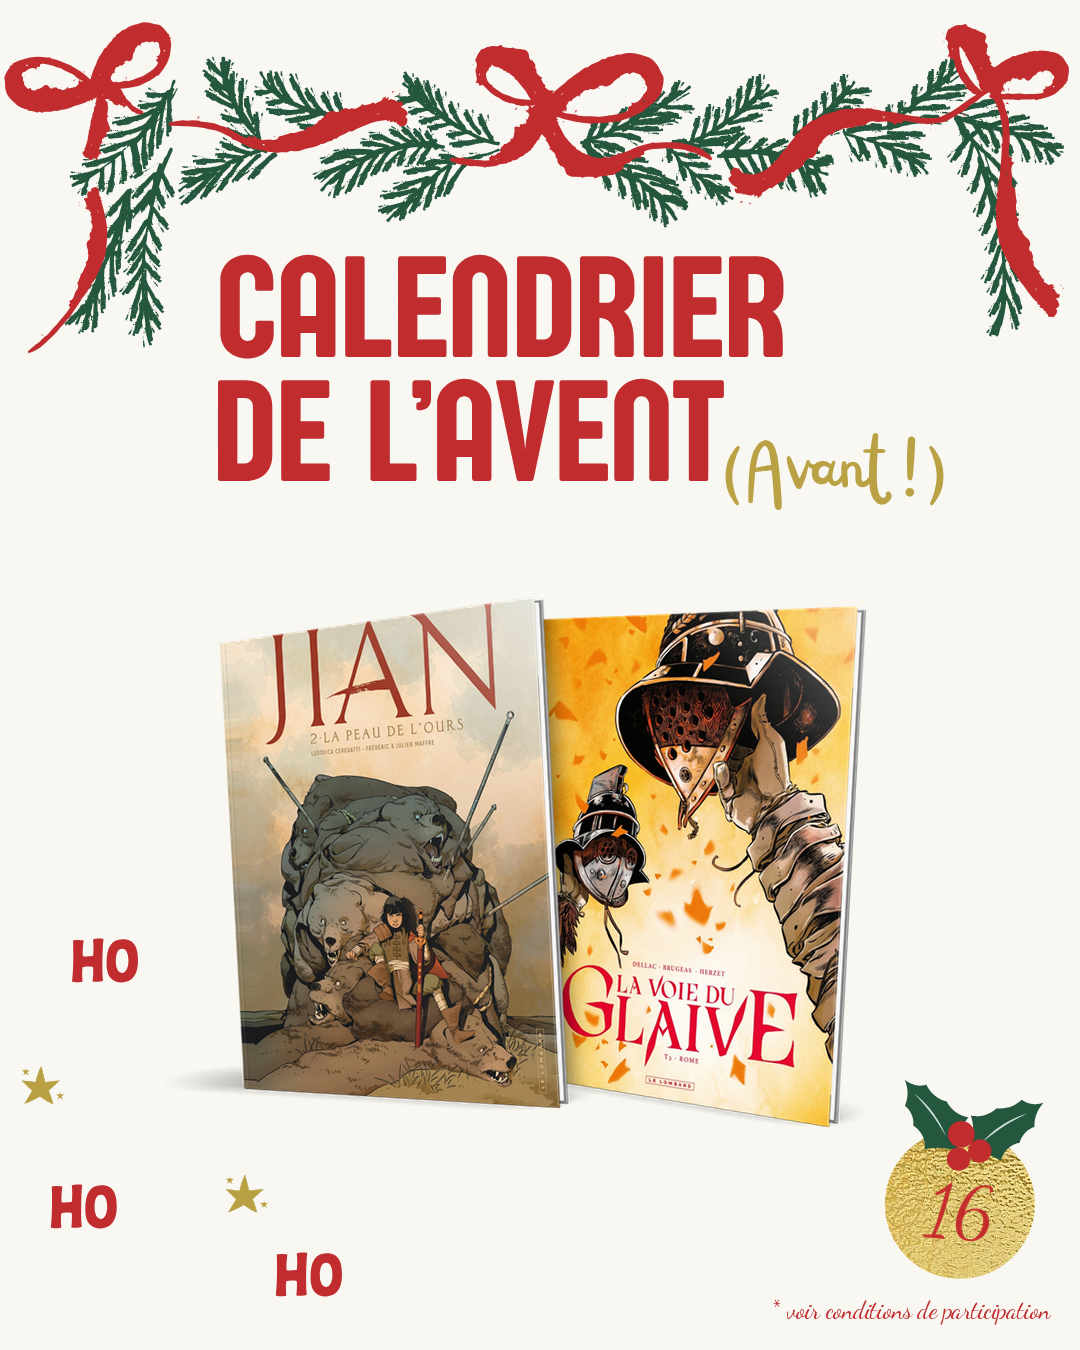
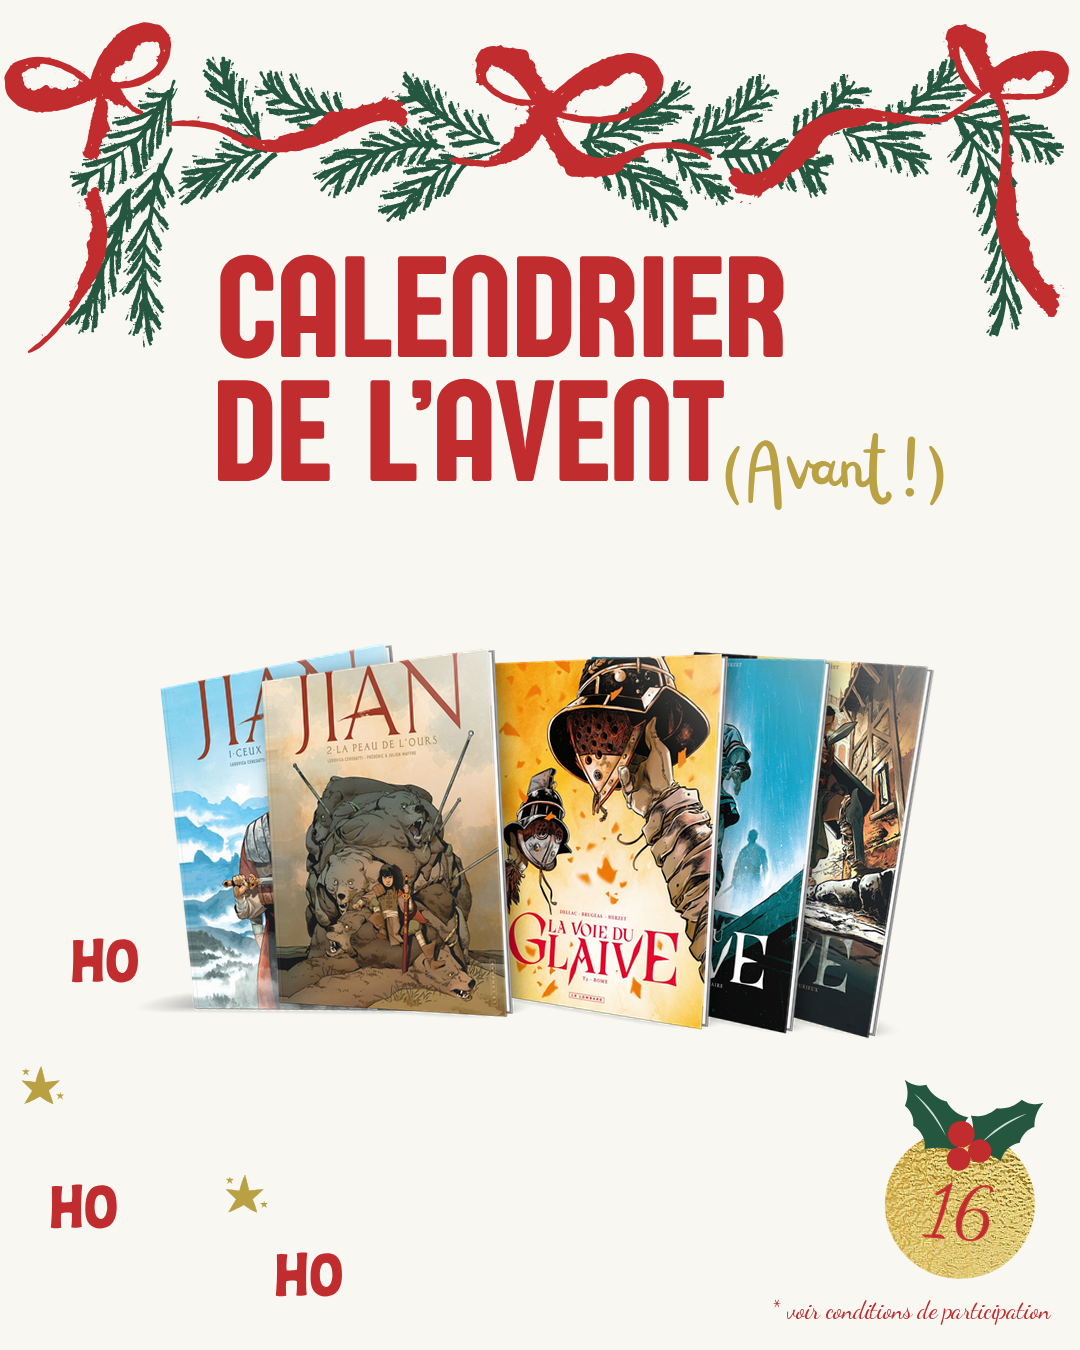
Calendrier Avant : jour 16 = Jian 1-2 | La voie du glaive 1-3 (composition sur mesure, profondeur z)
Claude-Session: https://claude.ai/code/session_01QaZk7QZvzTVY1x8op41wve

Changed region(s): [[0.1528, 0.4356, 0.8861, 0.84]]

diff --git a/calendrier-avent-2026/planning.py b/calendrier-avent-2026/planning.py
@@ -25,7 +25,7 @@ PLANNING = [
     ['9782808219211'],                    # 13 Le Territoire
     ['9782808201292'],                    # 14 Resurrection Hill
     ['9782808218115'],                    # 15 Un Noël à Paris 2
-    ['9782808217071', '9782808215008'],   # 16 Jian 2 + La voie du glaive 3
+    'jour16',                             # 16 Jian 1-2 | La voie du glaive 1-3 (voir COMPOSITIONS)
     ['9782808212588'],                    # 17 Mitsuo 2
     ['9782808217453', '9782808218092'],   # 18 M.A.D. 3 + Sherlock Holmes contre Arsène Lupin 2
     ['9782808218078', '9782808216821'],   # 19 Pro gamer 2 + Dinodyssée 3
@@ -55,6 +55,18 @@ VARIANTES = [
 ]
 
 
+# Compositions sur mesure : albums de gauche à droite avec angle / échelle / profondeur (z : plus grand = devant),
+# et écarts entre albums (en largeur d'album).
+COMPOSITIONS = {
+    # Jian 1 sous le 2 (à gauche) | séparation | La voie du glaive 3, puis 2 et 1 dessous (à droite)
+    'jour16': {
+        'books': [('9782808211413', -6, 1.0, 1), ('9782808217071', -3, 1.0, 5),
+                  ('9782808215008', 3, 1.02, 4), ('9782808212144', 6, 1.02, 3), ('9782808211192', 9, 1.02, 2)],
+        'steps': [0.4, 0.9, 0.4, 0.4], 'h': 375, 'y': 650,
+    },
+}
+
+
 def book(i):
     if i.startswith('simu:'):
         return {'png': '../assets/simu3d/' + i[5:]}
@@ -65,14 +77,26 @@ ONLY = sys.argv[1:]
 JOBS = [(f'jour{n:02d}', n, e) for n, e in enumerate(PLANNING, 1)] + VARIANTES
 for name, n, entry in JOBS:
     if ONLY and str(n) not in ONLY and name not in ONLY: continue
+    if isinstance(entry, str):               # composition sur mesure
+        c = COMPOSITIONS[entry]
+        books = []
+        for i, ang, sc, z in c['books']:
+            bk = book(i); bk.update(angle=ang, z=z)
+            if sc != 1: bk['scale'] = sc
+            books.append(bk)
+        layout = {'y': c['y'], 'h': c['h'], 'steps': c['steps'], 'cx': 540}
+    else:
+        layout = None
     serie = isinstance(entry, dict)
-    isbns = entry['serie'] if serie else entry
-    books = [book(i) for i in isbns]
+    isbns = entry['serie'] if serie else ([] if layout else entry)
+    if not layout: books = [book(i) for i in isbns]
     overlap = 0.1
     if serie:
         for k, b in enumerate(books):
             b['angle'] = -5 + 3 * k
         overlap = SERIE_OVERLAP
+    elif layout:
+        pass
     elif len(books) == 2:                   # réglages validés au jour 1
         books[0]['angle'] = -3
         books[1].update(angle=3, scale=1.02)
@@ -85,7 +109,7 @@ for name, n, entry in JOBS:
     cx = 525 if len(books) >= 4 else 540   # 4 albums : léger décalage pour dégager le houx
     cfg = {
         'theme': THEMES[(n - 1) % 3],
-        'layout': {'y': 600, 'h': 520, 'overlap': overlap, 'cx': cx},
+        'layout': layout or {'y': 600, 'h': 520, 'overlap': overlap, 'cx': cx},
         'books': books,
         'date': {'text': str(n), 'font': FONT, 'angle': 5, 'cx': 959, 'cy': 1201, 'diam': 147, 'fill': 0.9},
         'mention': {'text': '* voir conditions de participation', 'font': FONT, 'size': 24, 'x': 1050, 'y': 1318},

diff --git a/calendrier-avent-2026/compose.py b/calendrier-avent-2026/compose.py
@@ -117,12 +117,19 @@ def main(cfg_path, out_path):
     lay = cfg.get('layout', {})
     h = lay.get('h', 520); s = h / (CROP[3] - CROP[1])
     book_w = (1635 - 743) * s; off = (743 - CROP[0]) * s     # largeur du livre / décalage dans le mockup
-    n = len(cfg['books']); step = book_w * (1 - lay.get('overlap', .1))
-    left = lay.get('cx', 540) - (book_w + step * (n - 1)) / 2
+    n = len(cfg['books'])
+    # écart entre albums consécutifs (en largeur d'album) : 'steps' explicite, sinon 1 - overlap partout
+    steps = lay.get('steps') or [1 - lay.get('overlap', .1)] * (n - 1)
+    offs = [0.0]
+    for st in steps: offs.append(offs[-1] + st * book_w)
+    left = lay.get('cx', 540) - (offs[-1] + book_w) / 2
     # même taille pour tous ; on dessine de droite à gauche : l'album de droite est à l'arrière-plan
     bodies = None
-    for i, b in reversed(list(enumerate(cfg['books']))):
-        x = b.get('x', round(left + i * step - off)); y = b.get('y', lay.get('y', 600))
+    # ordre de dessin : 'z' croissant (le plus grand devant) ; par défaut l'album de gauche est devant
+    order = sorted(range(n), key=lambda i: cfg['books'][i].get('z', -i))
+    for i in order:
+        b = cfg['books'][i]
+        x = b.get('x', round(left + offs[i] - off)); y = b.get('y', lay.get('y', 600))
         # centre du livre (hors ombre) : point fixe pour l'échelle et la rotation
         bx = x + (743 + 1635) / 2 * s - CROP[0] * s; by = y + (129 + 1533) / 2 * s - CROP[1] * s
         if 'png' in b:

diff --git a/calendrier-avent-2026/README.md b/calendrier-avent-2026/README.md
@@ -34,6 +34,9 @@ Deux albums (séries différentes) : -3° / +3°, celui de droite à 102 % et de
 Simulation 3D fournie (PNG détouré dans `assets/simu3d/<ISBN>-….png`) : utilisée automatiquement à la place du mockup (jour 9 : Betty, Le Gang de la clef à molette ; jour 10 : Le soleil va se lever).
 Si la simulation a déjà sa propre ombre au sol, elle est gardée telle quelle.
 
+Compositions sur mesure : dictionnaire `COMPOSITIONS` de `planning.py` (angle, échelle, profondeur `z` et écarts par album).
+Jour 16 : Jian 1 sous le 2 à gauche (-6°, -3°) | La voie du glaive 3, 2, 1 à droite (+3°, +6°, +9°).
+
 Versions alternatives : liste `VARIANTES` de `planning.py` (ex. `jour14b` : Resurrection Hill, Little Tulip, New York Cannibals – collection Signé Boucq/Charyn ; `jour15b` : Un Noël à Paris 2 devant, 1 derrière)..
 
 Rendu d'un seul jour en 1080×1350 (format portrait Instagram) :
